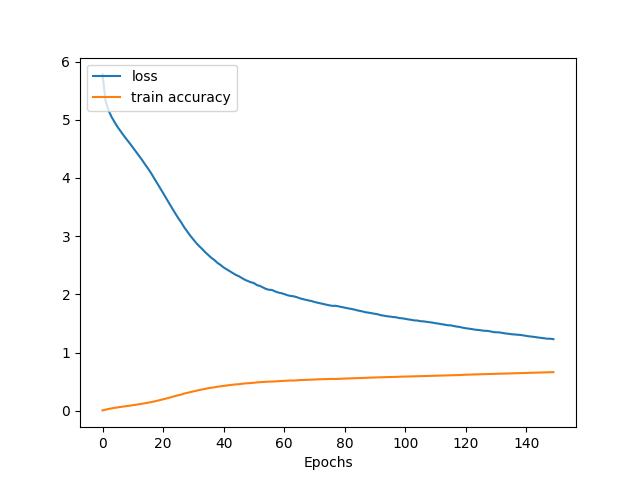
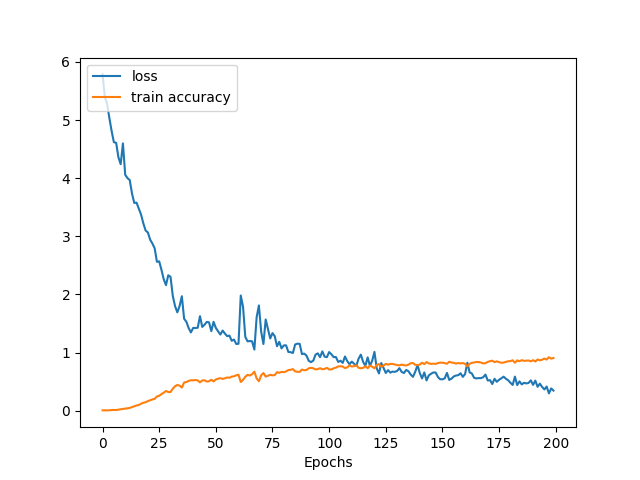
resnet18 model

diff --git a/deep_learning/train.py b/deep_learning/train.py
@@ -8,11 +8,11 @@ from util import *
 def train(model, images, labels, classes):
   model.train()
   loss_function = nn.CrossEntropyLoss()
-  optim = torch.optim.Adam(model.parameters(), lr=0.0001, weight_decay=1e-5)
+  optim = torch.optim.Adam(model.parameters(), lr=1e-3, weight_decay=1e-5)
 
   losses, accuracies = [], []
-  BS = 64
-  epochs = 150
+  BS = 256
+  epochs = 200
 
   for epoch in range(epochs):
     print("[+] Epoch %d/%d"%(epoch+1,epochs))
@@ -104,8 +104,8 @@ if __name__ == '__main__':
   #writer.add_image('food_images', img_grid)
 
   # train
-  model = FoodClassifier(len(classes)).to(device)
-  #model = init_resnet(len(classes), False, IMG_SIZE, device)
+  #model = FoodClassifier(len(classes)).to(device)
+  model = init_resnet(len(classes), False, IMG_SIZE, device)
   model = train(model, images, labels, classes)
   save_model(model, model_path)
 

diff --git a/deep_learning/model.py b/deep_learning/model.py
@@ -9,6 +9,7 @@ class FoodClassifier(nn.Module):
     super(FoodClassifier, self).__init__()
     self.n_classes = n_classes
 
+    # TODO: maybe add dropout in convolutional layers as well
     # Convolutional Layers (Feature Detector)
     self.conv1 = nn.Conv2d(3, 64, 5)
     self.conv2_bn1 = nn.BatchNorm2d(64)
@@ -47,10 +48,12 @@ class FoodClassifier(nn.Module):
     return num_features
 
 
+# TODO: try ResNet18
 def init_resnet(num_classes, feature_extract, input_size, device):
-  model = models.resnet34(pretrained=False)
+  model = models.resnet18(pretrained=False)
   num_feats = model.fc.in_features
   model.fc = nn.Linear(num_feats, num_classes)
+  print(model)
   return model.to(device)
 
 def save_model(model, path):

diff --git a/deep_learning/util.py b/deep_learning/util.py
@@ -4,11 +4,10 @@
 IMG_SIZE = 128
 
 # Model Paths
-model_path = "../models/classifier.pth"
-#model_path = "../models/resnet_classifier.pth"
-cpp_model_path = "../models/traced_classifier.pt"
-#model_path = "../models/vgg_classifier.pth"
-#cpp_model_path = "../models/traced_vgg_classifier.pt"
+#model_path = "../models/classifier.pth"
+model_path = "../models/resnet18_classifier.pth"
+#cpp_model_path = "../models/traced_classifier.pt"
+cpp_model_path = "../models/traced_renset18_classifier.pt"
 classes_path = "../models/classes.json"
 
 # Data Paths
